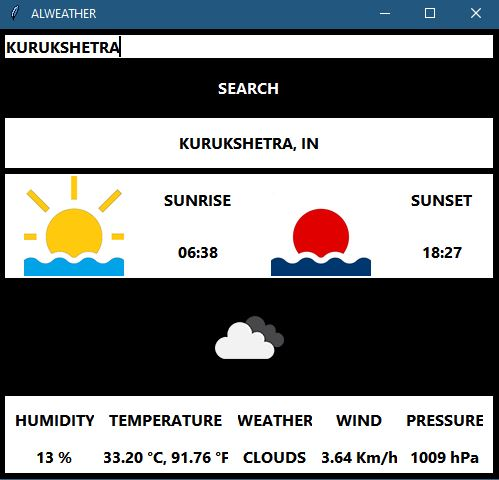
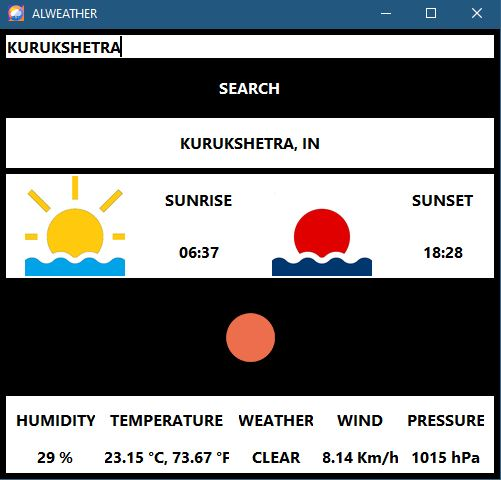
AlWeather

diff --git a/AlWeather.py b/AlWeather.py
@@ -16,6 +16,7 @@ class AlWeather:
         root = Tk(className=" ALWEATHER ")
         root.geometry("500x450+1410+565")
         root.config(bg="white")
+        root.iconbitmap(os.path.join(cwd+'\\UI\\icons', 'alweather.ico'))
         mainframe = Frame(root,bg="white")
         
         configFile = cwd+'\AlWeather\config.ini'
